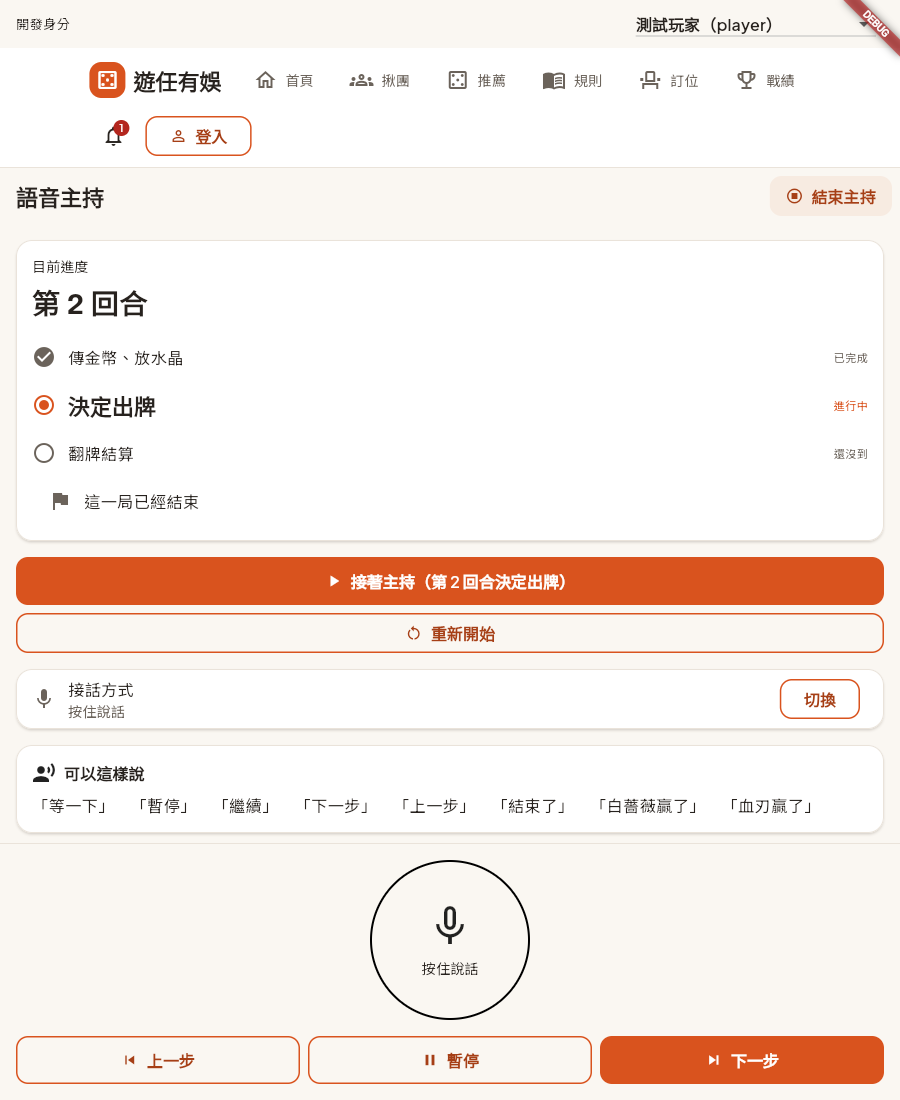
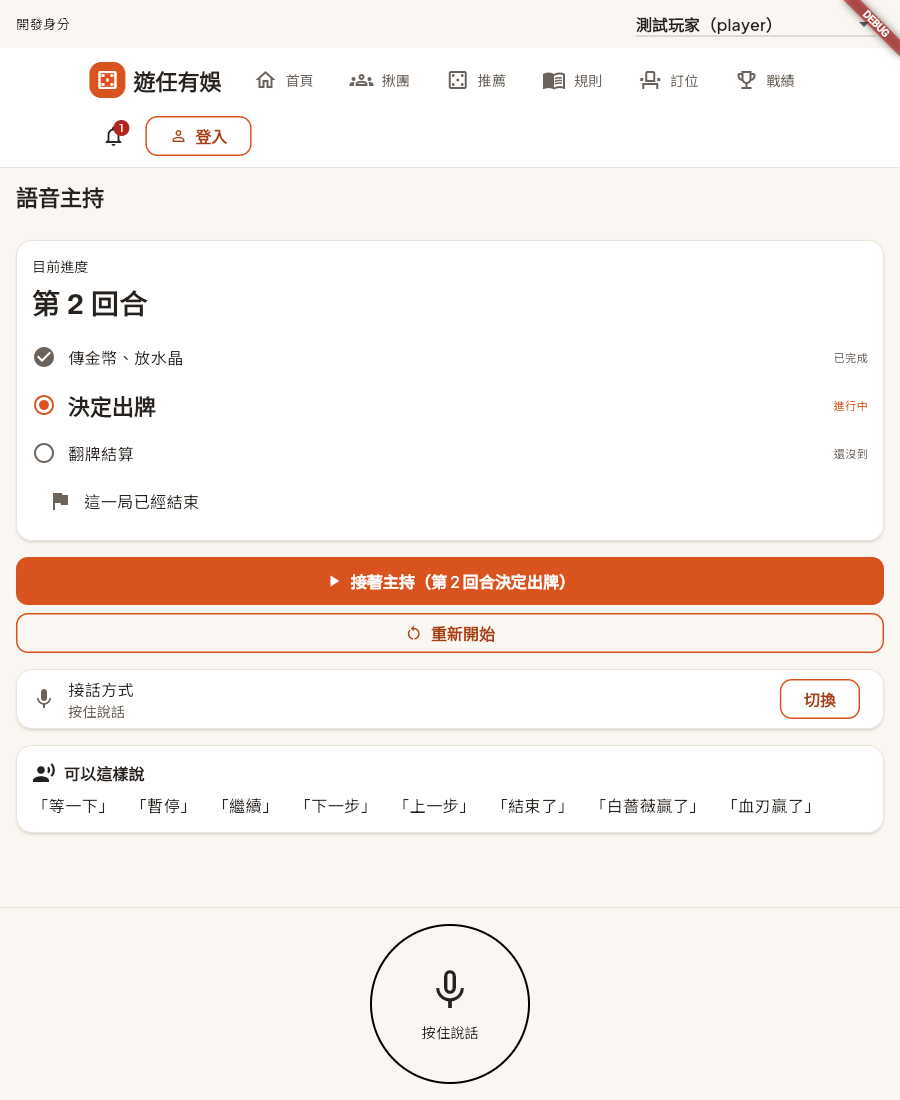
docs(host): 換上已結束的新截圖，I10 記參考畫面整理的經過
1. 07-ended(修改): 已結束後流程鍵與結束主持收起來的新畫面
2. 10-prototype-handoff-and-live-checks(修改): 記參考畫面整理的範圍與結果、
   showFlowControls 的決定、頁面空白的原因

diff --git a/.scratch/host-impl/issues/10-prototype-handoff-and-live-checks.md b/.scratch/host-impl/issues/10-prototype-handoff-and-live-checks.md
@@ -115,3 +115,8 @@ MR: [#68](https://github.com/GAE265/tabletop-hub-tw/pull/68)
   - 量到：只在交給主持人的文字裡加「請隆重、放慢」的指示，聲音長度幾乎不變（5.7 秒對 5.7 秒）；把停頓寫進字句（破折號、刪節號、分句）才有效。
   - 錄了四種給立倫聽（A 只加指示、B 加停頓符號、C 分成短句、D 多一句揭曉），**立倫選 B**。兩句定稿：「恭喜——白薔薇陣營——獲勝！……刀光散去，白薔薇，依然盛開。」「恭喜——血刃陣營——獲勝！……今夜，白薔薇，凋零在刀刃之下。」
   - 語氣的指示也留著（`content.py` 的 `line_request`），只用在這兩句。不分陣營的「這一局結束了。」沒有改。
+- 2026-11-22 立倫：語音主持功能可以了；畫面有點陽春，要改進。
+  - 範圍先問過立倫：選「只整理參考畫面」（留在 `/proto/host`，仍只用 Flutter 預設元件、不加顏色，符合 AGENTS.md §5.4），不做正式頁面。
+  - 派一個 Orca worker 用 `ui-ux-pro-max` 與 `mattpocock-skills:tdd` 做（`b664a31` 到 `d72c82c`）：進度放大、用卡片分區、手機的流程鍵固定在畫面底部（原本出現暫停橫幅時會被往下推 70px）、「結束主持」移到標題列、筆電兩欄、提醒分三種。沒有自訂顏色、字型、主題覆寫。驗收通過。
+  - 立倫再要求：已結束後把流程鍵收起來。`state/` 加 `showFlowControls`（連著而且這一局還沒結束才是真），上一步、暫停或繼續、下一步與「結束主持」只在它為真時顯示；按住說話鍵留著，因為結束後照常可以問規則（spec §3.3）。交接說明已補上。
+- 2026-11-22：立倫開頁面時一片空白。重現到：開發用的前端伺服器（`flutter run -d web-server`）還活著，但 App 卡在載入沒有啟動；重啟前端就好了。推測是先前接在上面的瀏覽器（截圖用）占住了它的除錯連線，所以之後截完圖都把那個瀏覽器關掉。這是開發伺服器的事，不是程式的問題。
